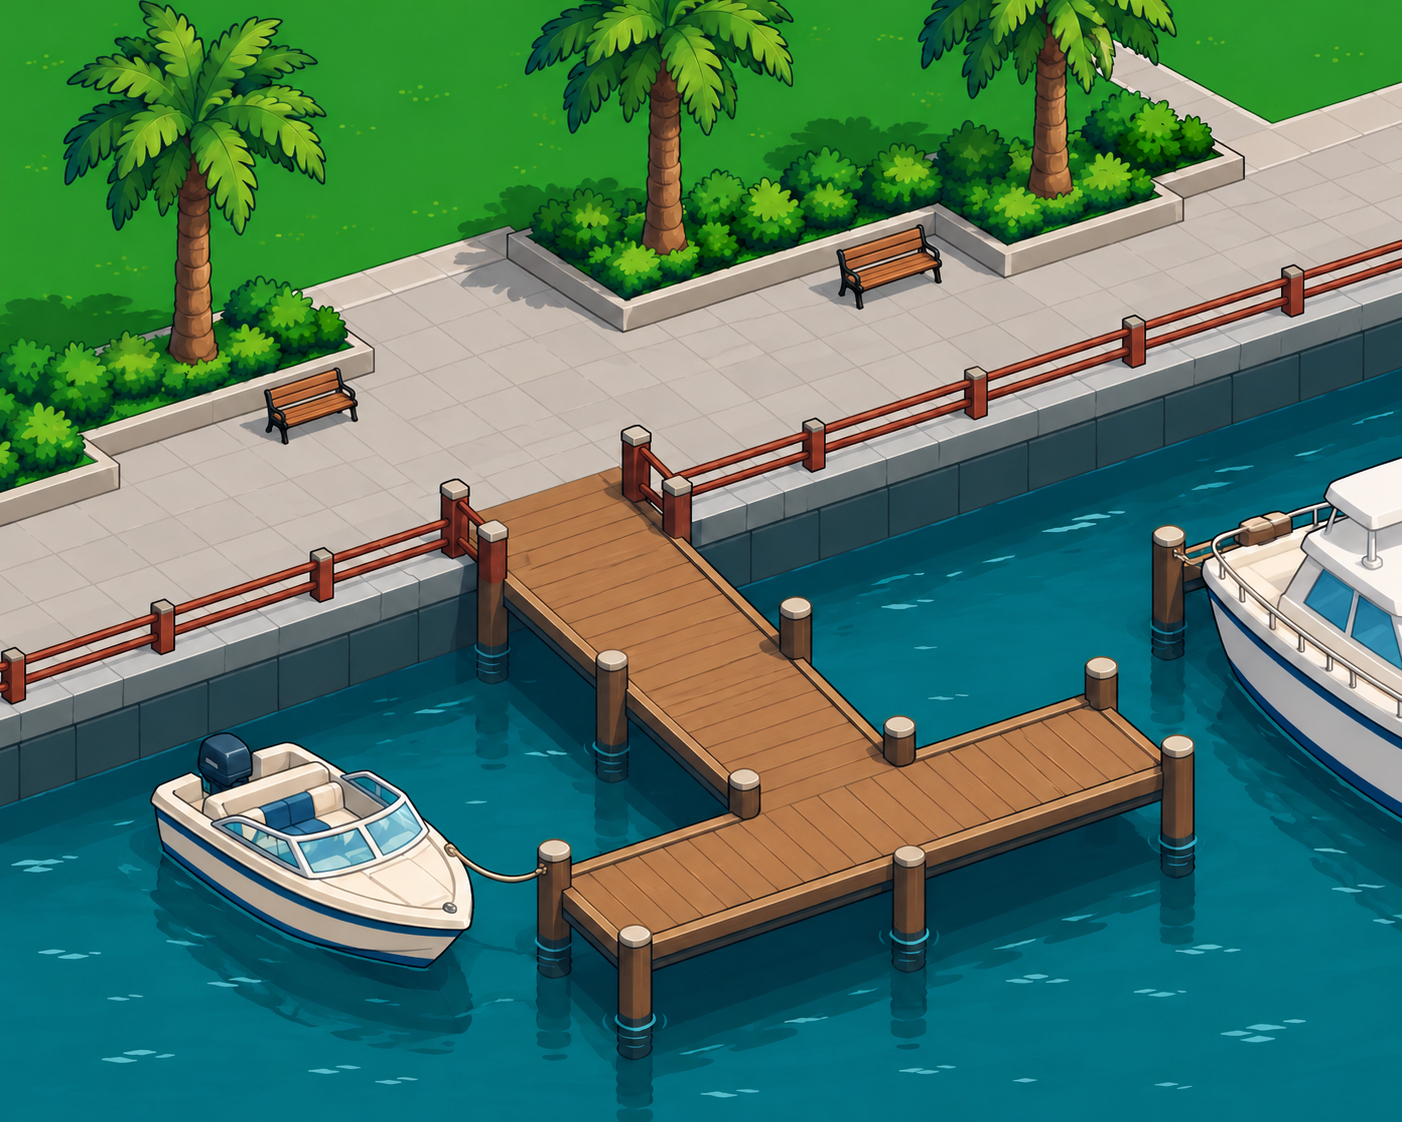
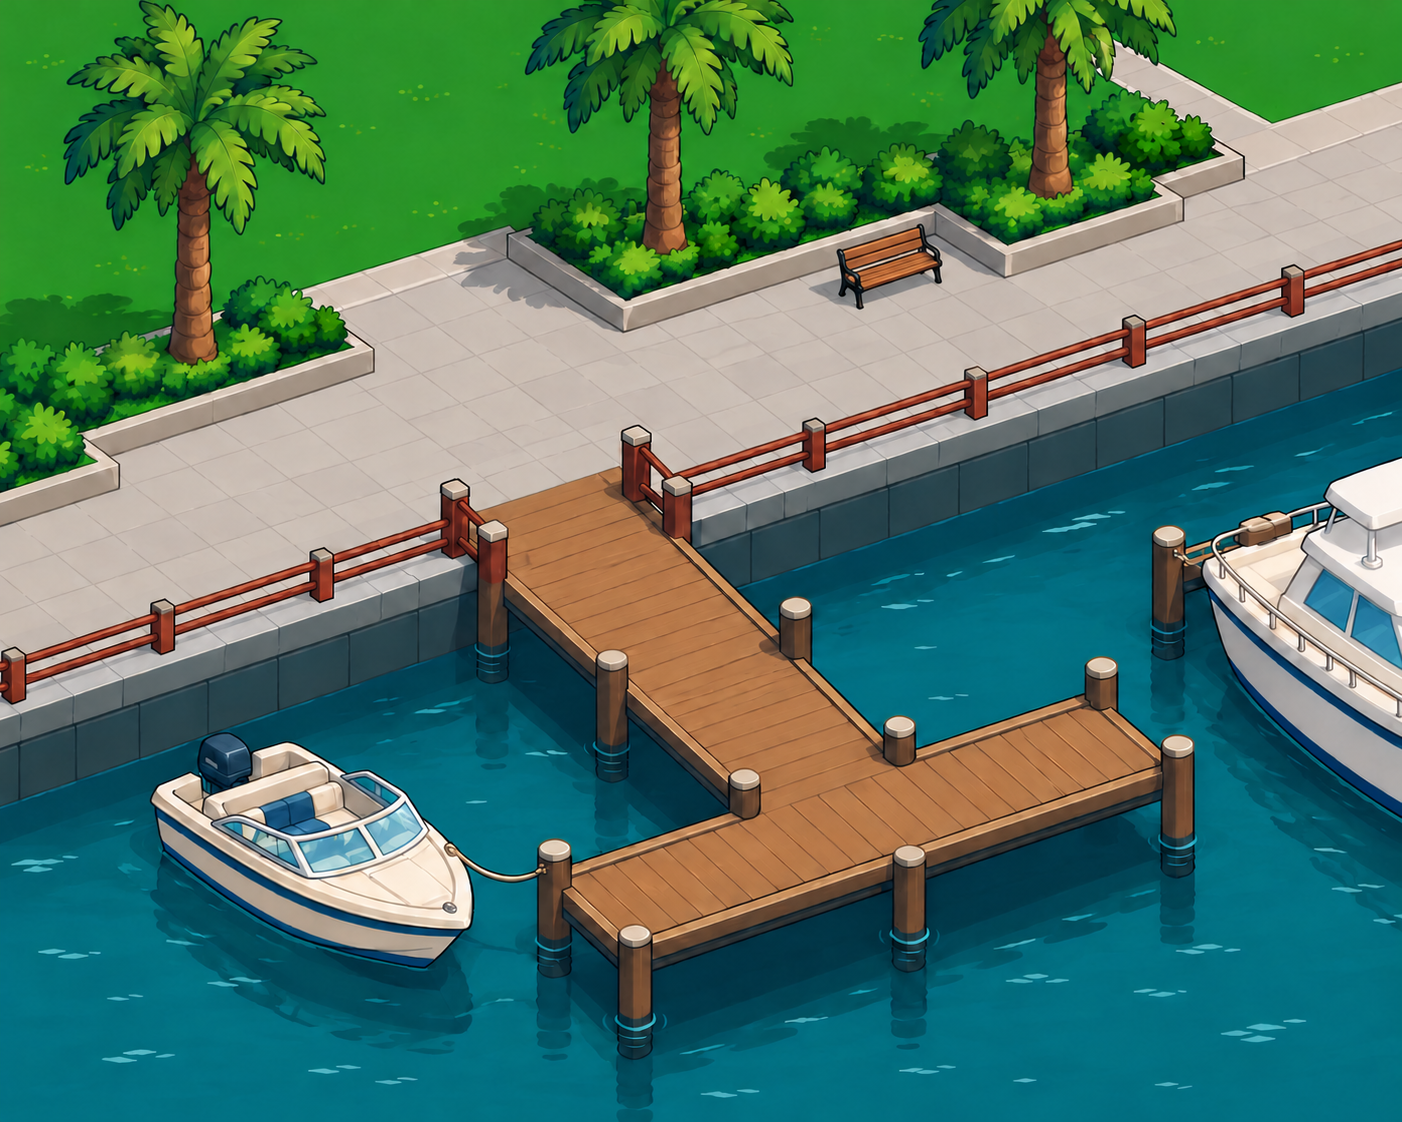
Redraw stands from original themes and preserve detail in the actual world

diff --git a/src/game/presentation/street-scene.ts b/src/game/presentation/street-scene.ts
@@ -22,7 +22,6 @@ export class StreetScene extends Phaser.Scene {
     private hooks: StreetHooks;
     private people = new Map<number, Phaser.GameObjects.Sprite>();
     private bubbles = new Map<number, Phaser.GameObjects.Text>();
-    private sign?: Phaser.GameObjects.Text;
     private sky?: Phaser.GameObjects.Rectangle;
     private background?: Phaser.GameObjects.Image;
     private cart?: Phaser.GameObjects.Image;
@@ -47,6 +46,7 @@ export class StreetScene extends Phaser.Scene {
     }
 
     create(): void {
+        this.cameras.main.setZoom(2).centerOn(320, 256);
         createArt(this);
         createStandArt(this);
         this.background = this.add.image(0, 0, this.hooks.state().location).setOrigin(0).setDisplaySize(640, 512);
@@ -59,9 +59,6 @@ export class StreetScene extends Phaser.Scene {
         }
         const [x, y] = MAP_LAYOUTS[this.hooks.state().location].ground;
         this.cart = this.add.image(x * 640 / 300, y * 512 / 240, "stand-0").setOrigin(0.5, 1);
-        this.sign = this.add.text(x * 640 / 300 - 5.8, y * 512 / 240 - 17.4, "FRESH", {
-            fontFamily: "monospace", fontSize: "7px", color: "#574b31", backgroundColor: "#fff0bd",
-        }).setOrigin(0.5);
         this.sky = this.add.rectangle(0, 0, 640, 512, 0x536b83, 0).setOrigin(0).setDepth(1000);
         this.game.canvas.setAttribute("aria-label", "A lemonade stand on Willow Lane. Several people can walk, wait in line, buy, or leave.");
         this.game.canvas.setAttribute("role", "img");
@@ -100,8 +97,9 @@ export class StreetScene extends Phaser.Scene {
         const peopleScale = 1.4;
         const visible = new Set<number>();
         const show = (id: number, profile: number, pose: number, position: number,
-            label?: string, facingStand = false) => {
-            const [logicalX, logicalY] = mapPosition(this.hooks.state().location, position);
+            label?: string, facingStand = false, purpose: "service" | "through" | "depart" = "service") => {
+            const [logicalX, logicalY] = mapPosition(this.hooks.state().location, position,
+                purpose);
             const x = logicalX * 640 / 300, y = logicalY * 512 / 240;
             visible.add(id);
             let sprite = this.people.get(id);
@@ -142,7 +140,8 @@ export class StreetScene extends Phaser.Scene {
             const x = from + (680 - from) * progress;
             show(person.visitor.id, person.visitor.profile,
                 person.kind === "bought" ? 3 : day.tick % 2, x,
-                progress < 0.65 && person.kind !== "passed" ? this.reaction(person) : undefined);
+                progress < 0.65 && person.kind !== "passed" ? this.reaction(person) : undefined,
+                false, person.kind === "passed" || person.kind === "price" ? "through" : "depart");
         }
         for (const [id, sprite] of this.people) if (!visible.has(id)) {
             sprite.destroy();
@@ -157,8 +156,10 @@ export class StreetScene extends Phaser.Scene {
         const ground = MAP_LAYOUTS[state.location].ground;
         const x = ground[0] * 640 / 300, y = ground[1] * 512 / 240;
         const level = state.management.upgrades.stand, size = standSize(level);
+        const flip = standFlip(MAP_LAYOUTS[state.location].facing);
         this.cart?.setTexture(`stand-${level}`).setDisplaySize(size.width, size.height)
-            .setFlipX(standFlip(level, MAP_LAYOUTS[state.location].facing)).setPosition(x, y).setDepth(y);
+            .setOrigin(flip ? 1 - size.originX : size.originX, size.originY)
+            .setFlipX(flip).setPosition(x, y).setDepth(y);
         this.game.canvas.setAttribute("data-stand-level", String(level));
         this.game.canvas.setAttribute("data-stand-texture", this.cart?.texture.key ?? "");
         this.game.canvas.setAttribute("data-stand-name", STAND_NAMES[level]);
@@ -166,12 +167,10 @@ export class StreetScene extends Phaser.Scene {
         this.game.canvas.setAttribute("data-map-source-width", String(this.textures.get(`map-source-${state.location}`).getSourceImage().width));
         this.game.canvas.setAttribute("data-map-texture-width", String(this.textures.get(state.location).getSourceImage().width));
         this.game.canvas.setAttribute("aria-label", `${STAND_NAMES[level]} at ${LOCATIONS[state.location].street}. People walk, queue, buy or leave.`);
-        this.sign?.setPosition(x - 5.8, y - 17.4).setDepth(y + 1);
         if (this.background?.texture.key !== state.location) {
             this.background?.setTexture(state.location).setDisplaySize(640, 512);
         }
         this.sky?.setAlpha(state.weather.label === "Rainy" ? 0.19 : state.weather.label === "Cloudy" ? 0.08 : 0);
-        this.sign?.setText(state.phase === "selling" ? "OPEN" : "FRESH");
         const street = this.hooks.street();
         if (!street || (street.game.phase !== "selling" && street.walking.length === 0)) {
             this.game.loop.sleep();

diff --git a/src/game/content/map-layouts.ts b/src/game/content/map-layouts.ts
@@ -2,26 +2,32 @@ export interface MapLayout {
     readonly facing: "left" | "right";
     readonly ground: readonly [number, number];
     readonly route: readonly (readonly [number, number, number])[];
+    readonly through?: readonly (readonly [number, number, number])[];
+    readonly departure?: readonly (readonly [number, number, number])[];
 }
 // Authored positions on the 300x240 map grid. Route values are simulation progress,
 // not screen X: a path may turn, cross a street and exit at a different edge.
 // 286 is the fixed service progress for every stand tier; upgrading never moves it.
 export const MAP_LAYOUTS = {
-    neighborhood: { facing: "left", ground: [235, 137], route: [[-20, -20, -2], [286, 223, 148], [680, 320, 208]] },
-    park: { facing: "right", ground: [164, 124], route: [[-20, -15, 36.5], [286, 176, 136], [420, 230, 168], [680, 320, 213]] },
-    downtown: { facing: "right", ground: [146, 174], route: [[-20, -20, 98], [160, 65, 144], [220, 110, 174], [286, 158, 186], [560, 183, 220], [680, 178, 253]] },
-    beach: { facing: "right", ground: [177, 123], route: [[-20, -20, 110], [150, 110, 120], [286, 189, 135], [680, 320, 150]] },
-    "old-square": { facing: "right", ground: [196, 137], route: [[-20, -20, 115], [120, 100, 125], [286, 208, 149], [450, 165, 200], [680, 150, 260]] },
-    "train-station": { facing: "right", ground: [195, 163], route: [[-20, -20, 125], [130, 105, 145], [286, 207, 175], [680, 320, 110]] },
-    mall: { facing: "right", ground: [106, 172], route: [[-20, -20, 100], [130, 80, 150], [286, 118, 184], [450, 205, 212], [680, 320, 270]] },
-    marina: { facing: "right", ground: [133, 100], route: [[-20, -20, 161], [286, 145, 112], [680, 320, 60]] },
-    stadium: { facing: "left", ground: [164, 110], route: [[-20, -20, 33], [286, 152, 122], [680, 320, 203]] },
+    neighborhood: { facing: "right", ground: [113, 142], route: [[-20, -15, 232], [286, 123, 150], [680, -15, 232]],
+        through: [[-20, -20, -2], [680, 320, 208]],
+        departure: [[286, 123, 150], [400, 110, 160], [680, -15, 234]] },
+    park: { facing: "right", ground: [155, 124], route: [[-20, -15, 36.5], [286, 167, 136], [420, 230, 168], [680, 320, 213]] },
+    downtown: { facing: "left", ground: [138, 173], route: [[-20, -20, 98], [160, 65, 144], [220, 110, 174], [286, 126, 185], [560, 183, 220], [680, 178, 253]] },
+    beach: { facing: "left", ground: [256, 145], route: [[-20, -20, 110], [150, 110, 120], [286, 244, 157], [680, 320, 150]] },
+    "old-square": { facing: "right", ground: [140, 136], route: [[-20, -20, 115], [120, 100, 125], [286, 152, 148], [450, 165, 200], [680, 150, 260]] },
+    "train-station": { facing: "left", ground: [216, 161], route: [[-20, -20, 125], [130, 105, 145], [286, 204, 173], [680, 320, 110]] },
+    mall: { facing: "right", ground: [228, 188], route: [[-20, -20, 100], [130, 80, 150], [240, 150, 185], [286, 240, 200], [680, 320, 240]] },
+    marina: { facing: "right", ground: [65, 100], route: [[-20, -20, 141], [286, 77, 112], [680, 320, 40]] },
+    stadium: { facing: "left", ground: [237, 154], route: [[-20, -20, 33], [286, 225, 166], [680, 320, 213]] },
     "magic-gardens": { facing: "left", ground: [204, 142], route: [[-20, -20, 103], [130, 120, 112], [286, 192, 154], [430, 165, 178], [540, 120, 205], [680, 100, 260]] },
 } as const satisfies Readonly<Record<string, MapLayout>>;
 export type MapThemeId = keyof typeof MAP_LAYOUTS;
 
-export function mapPosition(id: MapThemeId, progress: number): readonly [number, number] {
-    const route: MapLayout["route"] = MAP_LAYOUTS[id].route;
+export function mapPosition(id: MapThemeId, progress: number, purpose: "service" | "through" | "depart" = "service"): readonly [number, number] {
+    const layout: MapLayout = MAP_LAYOUTS[id];
+    const route = purpose === "through" ? layout.through ?? layout.route :
+        purpose === "depart" ? layout.departure ?? layout.route : layout.route;
     const next = route.findIndex(point => point[0] >= progress);
     const index = next < 0 ? route.length - 2 : Math.max(0, next - 1);
     const [start, x, y] = route[index], [end, xx, yy] = route[index + 1];

diff --git a/src/game/presentation/stand-art.ts b/src/game/presentation/stand-art.ts
@@ -1,19 +1,19 @@
 import type Phaser from "phaser";
 
 export const STAND_ASSETS = {
-    "stand-source-basic": new URL("../assets/stand-basic.png", import.meta.url).href,
-    "stand-source-classic": new URL("../assets/stand-classic.png", import.meta.url).href,
-    "stand-source-lemon": new URL("../assets/stand-lemon.png", import.meta.url).href,
-    "stand-source-castle": new URL("../assets/stand-castle.png", import.meta.url).href,
+    "stand-source-basic": new URL("../assets/stand-basic-v2.png", import.meta.url).href,
+    "stand-source-classic": new URL("../assets/stand-classic-v2.png", import.meta.url).href,
+    "stand-source-lemon": new URL("../assets/stand-lemon-v2.png", import.meta.url).href,
+    "stand-source-castle": new URL("../assets/stand-castle-v2.png", import.meta.url).href,
 };
 
-// Alpha bounds exclude transparent source padding. All frames share a bottom-center
-// ground anchor; dimensions are logical map pixels, not raw generation resolution.
+// The anchor is the center of the front floor edge, measured on each source.
+// Transparent padding and different roof heights must never shift the floor.
 const frames = [
-    { source: "stand-source-basic", bounds: [196, 110, 813, 1098], width: 28 },
-    { source: "stand-source-classic", bounds: [315, 70, 797, 980], width: 36 },
-    { source: "stand-source-lemon", bounds: [193, 82, 1035, 976], width: 42 },
-    { source: "stand-source-castle", bounds: [287, 75, 908, 969], width: 44 },
+    { source: "stand-source-basic", bounds: [382, 84, 730, 957], width: 30, anchor: [835, 925] },
+    { source: "stand-source-classic", bounds: [300, 73, 879, 996], width: 46, anchor: [855, 925] },
+    { source: "stand-source-lemon", bounds: [162, 147, 1146, 852], width: 52, anchor: [925, 900] },
+    { source: "stand-source-castle", bounds: [223, 58, 1084, 1004], width: 60, anchor: [905, 945] },
 ] as const;
 
 export function createStandArt(scene: Phaser.Scene): void {
@@ -34,10 +34,12 @@ export function createStandArt(scene: Phaser.Scene): void {
 export function standSize(level: number) {
     const frame = frames[level];
     return { width: frame.width * 640 / 300,
-        height: Math.round(frame.width * frame.bounds[3] / frame.bounds[2]) * 512 / 240 };
+        height: frame.width * frame.bounds[3] / frame.bounds[2] * 512 / 240,
+        originX: (frame.anchor[0] - frame.bounds[0]) / frame.bounds[2],
+        originY: (frame.anchor[1] - frame.bounds[1]) / frame.bounds[3] };
 }
 
-// Basic's main counter faces the opposite diagonal to the three kiosks.
-export function standFlip(level: number, facing: "left" | "right"): boolean {
-    return (level === 0 ? "left" : "right") !== facing;
+// All newly drawn stages share the same source projection and customer side.
+export function standFlip(facing: "left" | "right"): boolean {
+    return facing === "left";
 }

diff --git a/src/reboot.ts b/src/reboot.ts
@@ -203,12 +203,15 @@ const scene = new StreetScene({
 });
 new Phaser.Game({
     type: Phaser.CANVAS,
-    width: 640,
-    height: 512,
+    // Render the 640x512 world at twice the backing resolution before fitting
+    // the canvas to its displayed size. Native artwork must not be pixelated.
+    width: 1280,
+    height: 1024,
     parent: "game-container",
     backgroundColor: "#9bc77e",
-    pixelArt: true,
-    roundPixels: true,
+    pixelArt: false,
+    antialias: true,
+    roundPixels: false,
     scale: { mode: Phaser.Scale.FIT, autoCenter: Phaser.Scale.CENTER_BOTH },
     scene: [scene],
     audio: { noAudio: true },

diff --git a/src/game/presentation/style.css b/src/game/presentation/style.css
@@ -549,7 +549,7 @@ input[aria-invalid="true"] {
 }
 canvas {
     display: block;
-    image-rendering: pixelated;
+    image-rendering: auto;
 }
 #scene-controls {
     position: absolute;

diff --git a/docs/reviews/original-stand-placement.md b/docs/reviews/original-stand-placement.md
@@ -1,0 +1,41 @@
+# Original stand placement and projection audit
+
+Private retained sources: parent worktree `src/data/original-map-layouts.json`,
+`public/assets/original/*-objects.png`, `.local/browser/maps/*-stand-{1,2,3}.png`.
+Frame placement is recovered evidence; the legacy `APPROACHES` and `getStandPoint`
+helpers are authored navigation, not recovered original NPC movement.
+
+The original Classic sprites establish two mirrored projection families.
+Neighborhood and Park use a long serving-front edge rising toward screen-right;
+Downtown uses the opposite diagonal. Park/Marina/Mall/Old Square Classic sprites
+match each other's family; Downtown/Beach/Stadium/Station/Magic Gardens match the
+other. Pixel equality and a private enlarged three-sprite board confirm this;
+Neighborhood has distinct pixels but the same visible front diagonal as Park.
+The earlier inference that Downtown was the right-facing family was incorrect.
+
+Here `right` means the customer-side floor normal points toward bottom-right,
+with a front edge rising toward screen-right. `left` is its horizontal mirror.
+
+| Location | Original Basic frame x,y,w,h | Original front | Initial adapted floor | Service feet |
+|---|---|---|---|---|
+| Neighborhood |85,112,34,37|right|113,142|123,150|
+| Park |138,61,34,37|right|155,124|167,136|
+| Downtown |121,136,34,37|left|138,173|126,185|
+| Beach |241,100,34,37|left|256,145|244,157|
+| Old Square |92,102,34,37|right|140,136|152,148|
+| Train Station |210,112,34,37|left|216,161|204,173|
+| Mall |234,109,34,37|right|228,188|240,200|
+| Marina |43,61,34,37|right|65,100|77,112|
+| Stadium |212,66,34,37|left|237,154|225,166|
+| Magic Gardens |194,124,34,37|left|204,142|192,154|
+
+Adapted floors are authored on the new300x240 coordinate grid, not claimed as
+exact original coordinates. New scenery differs: the promenade stairs, Mall
+escalator/planter, Stadium seating edges and square statue require clearance for
+the largest tier. Review all four tiers before accepting any placement. Record
+further changes here rather than silently claiming original-perfect reproduction.
+
+Neighborhood returns to the original left junction lot. Customers use that
+sidewalk to approach/leave; noncustomers use an independent through-sidewalk
+route so they no longer perform a forced crossing U-turn to visit a counter.
+All routes are presentation authoring, not recovered original simulation rules.

diff --git a/art/studies/stand-upgrades-v2/README.md b/art/studies/stand-upgrades-v2/README.md
@@ -1,0 +1,29 @@
+# In-world stand redraws
+
+The user rejected the earlier icon-like stand illustrations and asked for the
+same quality as the map paintings, with thorough original-based placement.
+
+All four source PNGs were generated using the built-in OpenAI image-generation
+tool. The only supplied visual inputs were this project's own Neighborhood
+painting, and for the three upgrades, the newly generated own Basic cart.
+Original references were inspected privately and translated into written design
+observations; no original pixels were supplied to generation or shipped.
+Exact prompts are the four `*-prompt.txt` files. Selected sources: `*-v1.png`;
+production copies: `src/game/assets/stand-*-v2.png`.
+
+Basic: yellow timber cart and blue/pale-yellow parasol. Classic: red/cream pitched
+canopy and yellow timber counter. Lemon: whole horizontal lemon shell and small
+yellow/cream serving awning. Castle: golden round crenellated turrets and rounded
+gold canopy. All share an elevated 2:1 orthographic projection with the main front
+edge rising toward screen-right. Earlier assets remain preserved as superseded
+studies, not the selected direction.
+
+Native alpha crops retain source detail. A measured front-floor anchor replaces
+the arbitrary bounding-box bottom-center; mirroring also mirrors this anchor.
+The runtime floor point and service point are separate. Upgrades expand around
+the same sales pitch without moving customer feet into the stall.
+
+Native sources are1402x1122. Logical widths30/46/52/60 are an initial integration
+scale relative to the existing customers; actual40-combination review is required.
+Do not equate a sharp source drawing, successful image generation or green CI
+with successful in-game integration or human visual acceptance.

diff --git a/docs/reviews/native-art-rendering.md b/docs/reviews/native-art-rendering.md
@@ -1,0 +1,23 @@
+# Native art in the actual game
+
+The user praised the source drawings but rejected their degraded game rendering.
+Retaining native textures was insufficient while the final canvas was640x512 and
+Phaser/CSS forced nearest-neighbor pixel rendering. The authored300x240 coordinate
+grid is unrelated to the native image resolution and must never become a bitmap
+intermediate for the world or stand.
+
+The world remains640x512, rendered into a1280x1024 backing canvas by a2x camera.
+Antialiasing and normal browser downscaling replace forced pixelation. Map images
+remain1402x1122; stand alpha crops retain their native resolution. The rental
+thumbnail alone is300x240 and is never reused as a world texture. Native map image
+aliases share their source bitmap; temporary thumbnail canvases are released.
+
+The first actual moving Neighborhood check at the new backing size passed before
+the final stand redraws. Validate the complete final asset set on all ten venues,
+all four stand tiers, resized/high-DPI windows and the rebuilt Windows package.
+Compare source and actual game at equal displayed dimensions; a large source
+preview is not evidence of small-window integration. Weather tint is intentional
+scene state and must be identified when comparing colors with an untinted source.
+Keep the20fps ceiling, zero idle redraws and existing memory/retention checks.
+
+This is render-quality engineering, not human visual acceptance. #97 remains open.

diff --git a/docs/reviews/stand-upgrade-appearance.md b/docs/reviews/stand-upgrade-appearance.md
@@ -1,5 +1,13 @@
 # Independent upgradeable stand appearance — 2026-10-20
 
+This records the initial schema8 implementation and its historical checks.
+The user subsequently rejected the illustration style and placement. Selected
+redraws and the original-facing audit are in `art/studies/stand-upgrades-v2` and
+`docs/reviews/original-stand-placement.md`. Native alpha crops with measured
+front-floor anchors replace logical-grid downsampling/bottom-center alignment;
+the floating OPEN/FRESH image label is removed. See `native-art-rendering.md`
+before treating earlier screenshots as the delivered visual result.
+
 User explicitly requires the upgraded stand to appear in every map as a separate
 object. Inspection found that the reboot had one fixed cart texture and no owned
 stand tier. The retained original equipment UI survey confirms Classic449.99,

diff --git a/art/studies/all-map-style/README.md b/art/studies/all-map-style/README.md
@@ -41,3 +41,11 @@ sheet, ten600px sprite-overlay reviews, PNG size/hash manifest and browser check
 All ten original/reference image pairs decoded, selection10/10 and size/gray/
 sprite controls passed without page errors. Both art-study script directories
 passed ESLint with zero warnings. No runtime files or save rules were changed.
+# Runtime stand-lot revision
+
+Marina v3 removes only the left bench from the own v2 background, keeping a clear
+pitch near the original game's left-side stand region. The right bench, palms,
+pier, boats, railing, projection and colors remain. Exact edit direction is
+`marina-v3-stand-lot-prompt.txt`; selected source is `marina-v3-stand-lot.png`.
+No stand is painted into this background. Earlier versions remain preserved.
+
